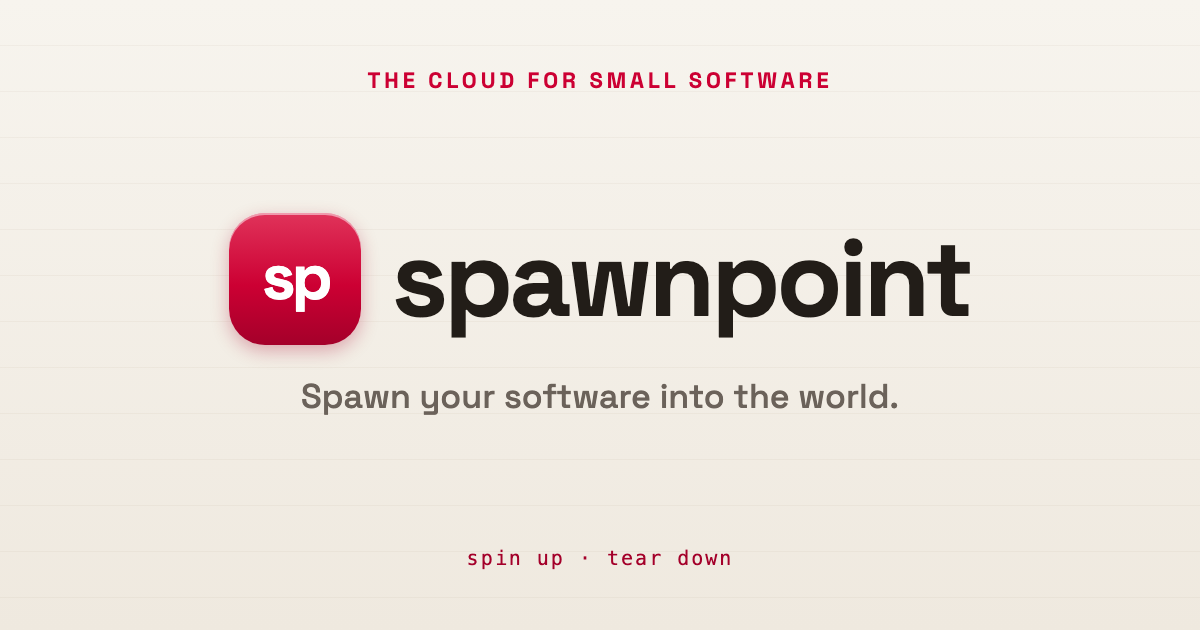
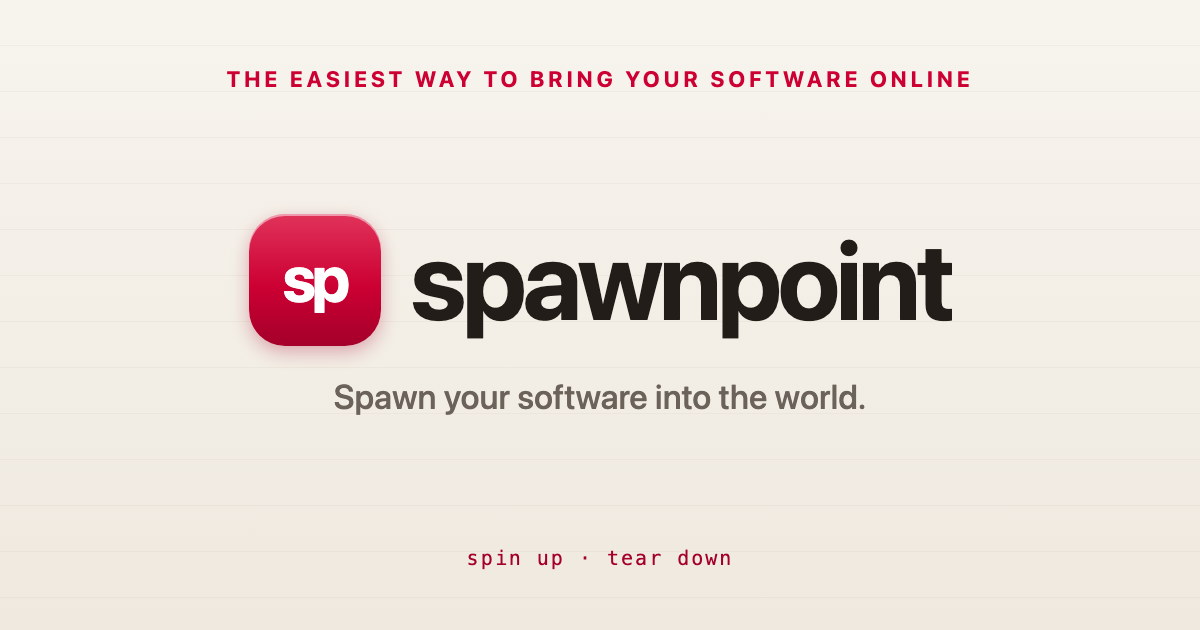
Rebrand tagline: "the easiest way to bring your software online"
Replaces "the cloud for small software" across titles, og/twitter meta,
eyebrows, FAQ, footers, llms.txt, and the regenerated og.png embed image.
Also updates a stale Fly reference in llms.txt (apps run on cloud VMs now).

Changed region(s): [[0.185, 0.3317, 0.8325, 0.573], [0.185, 0.0905, 0.8017, 0.1508], [0.2467, 0.6032, 0.74, 0.6635]]

diff --git a/index.html b/index.html
@@ -3,7 +3,7 @@
   <head>
     <meta charset="utf-8" />
     <meta name="viewport" content="width=device-width, initial-scale=1" />
-    <title>spawnpoint: the cloud for small software</title>
+    <title>spawnpoint: the easiest way to bring your software online</title>
     <link rel="icon" href="favicon.svg" type="image/svg+xml" />
     <meta
       name="description"
@@ -20,7 +20,7 @@
     <!-- Open Graph / Discord / Twitter link preview -->
     <meta property="og:type" content="website" />
     <meta property="og:site_name" content="spawnpoint" />
-    <meta property="og:title" content="spawnpoint: the cloud for small software" />
+    <meta property="og:title" content="spawnpoint: the easiest way to bring your software online" />
     <meta
       property="og:description"
       content="The simplest way to deploy the apps your agent builds. Your agent writes it, spawnpoint puts it online, and you get a link to share."
@@ -29,9 +29,9 @@
     <meta property="og:image" content="https://mannan.dev/spawnpoint-site/og.png" />
     <meta property="og:image:width" content="1200" />
     <meta property="og:image:height" content="630" />
-    <meta property="og:image:alt" content="spawnpoint: the cloud for small software" />
+    <meta property="og:image:alt" content="spawnpoint: the easiest way to bring your software online" />
     <meta name="twitter:card" content="summary_large_image" />
-    <meta name="twitter:title" content="spawnpoint: the cloud for small software" />
+    <meta name="twitter:title" content="spawnpoint: the easiest way to bring your software online" />
     <meta
       name="twitter:description"
       content="The simplest way to deploy the apps your agent builds. Your agent writes it, spawnpoint puts it online, and you get a link to share."
@@ -68,7 +68,7 @@
       <!-- ===== Hero ===== -->
       <section class="hero">
         <div class="container">
-          <span class="eyebrow">The cloud for small software</span>
+          <span class="eyebrow">The easiest way to bring your software online</span>
           <h1>Spawn your software <span class="shimmer">into the world</span></h1>
           <p>
             The simplest way to deploy the apps your agent builds. No IDE, no config, no
@@ -218,7 +218,7 @@
                 What is spawnpoint?
                 <span class="plus" aria-hidden="true">+</span>
               </button>
-              <div class="faq-a"><div>The simplest cloud for small software. When your agent builds a little app, spawnpoint puts it online and hands you a shareable link. There is no infra to touch.</div></div>
+              <div class="faq-a"><div>The easiest way to bring your software online. When your agent builds a little app, spawnpoint puts it online and hands you a shareable link. There is no infra to touch.</div></div>
             </div>
             <div class="faq-item">
               <button class="faq-q" aria-expanded="false">
@@ -260,7 +260,7 @@
         <div class="footer-grid footer-grid-3">
           <div>
             <a class="brand" href="./"><span class="brand-dot" aria-hidden="true"></span> spawnpoint</a>
-            <p class="tagline">The cloud for small software. Spawn your projects into the world.</p>
+            <p class="tagline">The easiest way to bring your software online. Spawn your projects into the world.</p>
           </div>
           <div>
             <h4>Product</h4>
@@ -288,7 +288,7 @@
           </div>
         </div>
         <div class="footer-bottom">
-          <span>© 2026 spawnpoint. The cloud for small software.</span>
+          <span>© 2026 spawnpoint. The easiest way to bring your software online.</span>
           <nav>
             <a href="#">Privacy</a>
             <a href="#">Terms</a>

diff --git a/mcp.html b/mcp.html
@@ -104,7 +104,7 @@
     <footer class="footer">
       <div class="container"><div class="footer-inner">
         <div class="footer-bottom">
-          <span>© 2026 spawnpoint. The cloud for small software.</span>
+          <span>© 2026 spawnpoint. The easiest way to bring your software online.</span>
           <nav><a href="getting-started.html">Docs</a><a href="about.html">About</a><a href="mailto:founders@spawnpoint.dev">Contact</a></nav>
         </div>
       </div></div>

diff --git a/about.html b/about.html
@@ -73,7 +73,7 @@
     <footer class="footer">
       <div class="container"><div class="footer-inner">
         <div class="footer-bottom">
-          <span>© 2026 spawnpoint. The cloud for small software.</span>
+          <span>© 2026 spawnpoint. The easiest way to bring your software online.</span>
           <nav><a href="getting-started.html">Docs</a><a href="about.html">About</a><a href="mailto:founders@spawnpoint.dev">Contact</a></nav>
         </div>
       </div></div>

diff --git a/api-tokens.html b/api-tokens.html
@@ -71,7 +71,7 @@
     <footer class="footer">
       <div class="container"><div class="footer-inner">
         <div class="footer-bottom">
-          <span>© 2026 spawnpoint. The cloud for small software.</span>
+          <span>© 2026 spawnpoint. The easiest way to bring your software online.</span>
           <nav><a href="getting-started.html">Docs</a><a href="about.html">About</a><a href="mailto:founders@spawnpoint.dev">Contact</a></nav>
         </div>
       </div></div>

diff --git a/getting-started.html b/getting-started.html
@@ -70,7 +70,7 @@
     <footer class="footer">
       <div class="container"><div class="footer-inner">
         <div class="footer-bottom">
-          <span>© 2026 spawnpoint. The cloud for small software.</span>
+          <span>© 2026 spawnpoint. The easiest way to bring your software online.</span>
           <nav><a href="getting-started.html">Docs</a><a href="about.html">About</a><a href="mailto:founders@spawnpoint.dev">Contact</a></nav>
         </div>
       </div></div>

diff --git a/security.html b/security.html
@@ -58,7 +58,7 @@
     <footer class="footer">
       <div class="container"><div class="footer-inner">
         <div class="footer-bottom">
-          <span>© 2026 spawnpoint. The cloud for small software.</span>
+          <span>© 2026 spawnpoint. The easiest way to bring your software online.</span>
           <nav><a href="getting-started.html">Docs</a><a href="about.html">About</a><a href="mailto:founders@spawnpoint.dev">Contact</a></nav>
         </div>
       </div></div>

diff --git a/og-image.html b/og-image.html
@@ -31,7 +31,7 @@
 </head>
 <body>
   <div class="card">
-    <div class="eyebrow">The cloud for small software</div>
+    <div class="eyebrow">The easiest way to bring your software online</div>
     <div class="lockup">
       <div class="mark"><span>sp</span></div>
       <div class="word">spawnpoint</div>

diff --git a/README.md b/README.md
@@ -1,6 +1,6 @@
 # spawnpoint-site
 
-The marketing landing page for **spawnpoint**, the cloud for small software. Static
+The marketing landing page for **spawnpoint**, the easiest way to bring your software online. Static
 HTML/CSS/JS with no build step, deployed via **GitHub Pages**.
 
 ## Live
